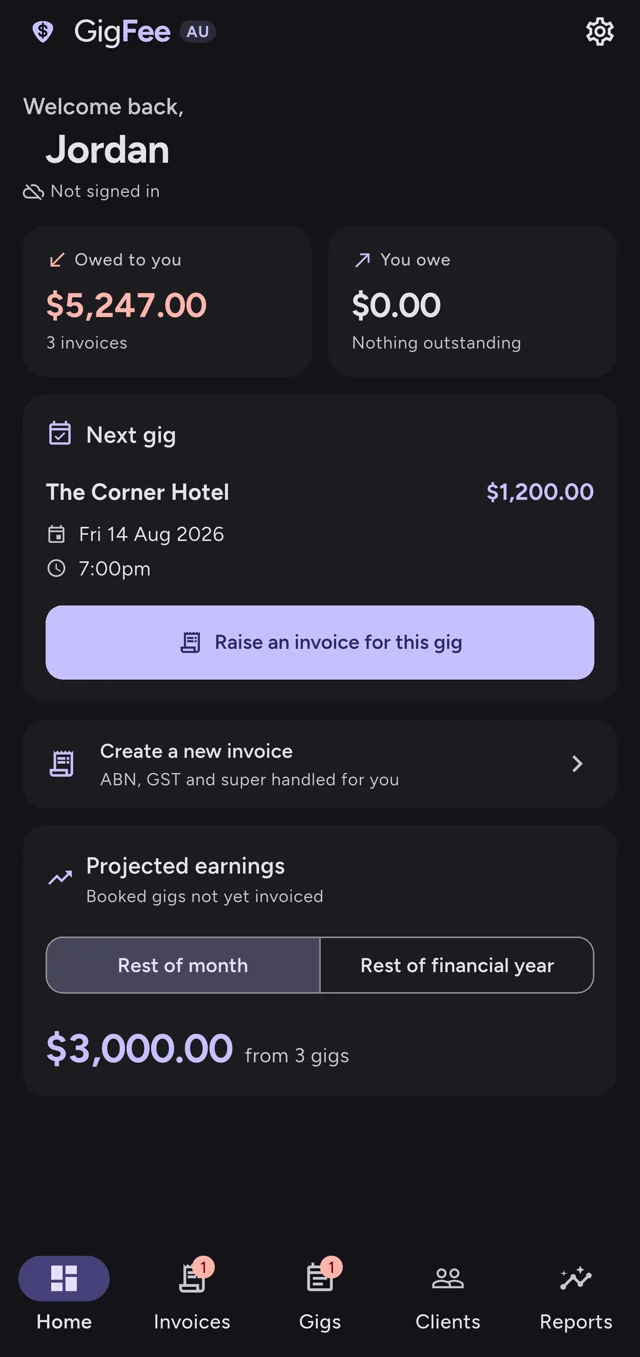
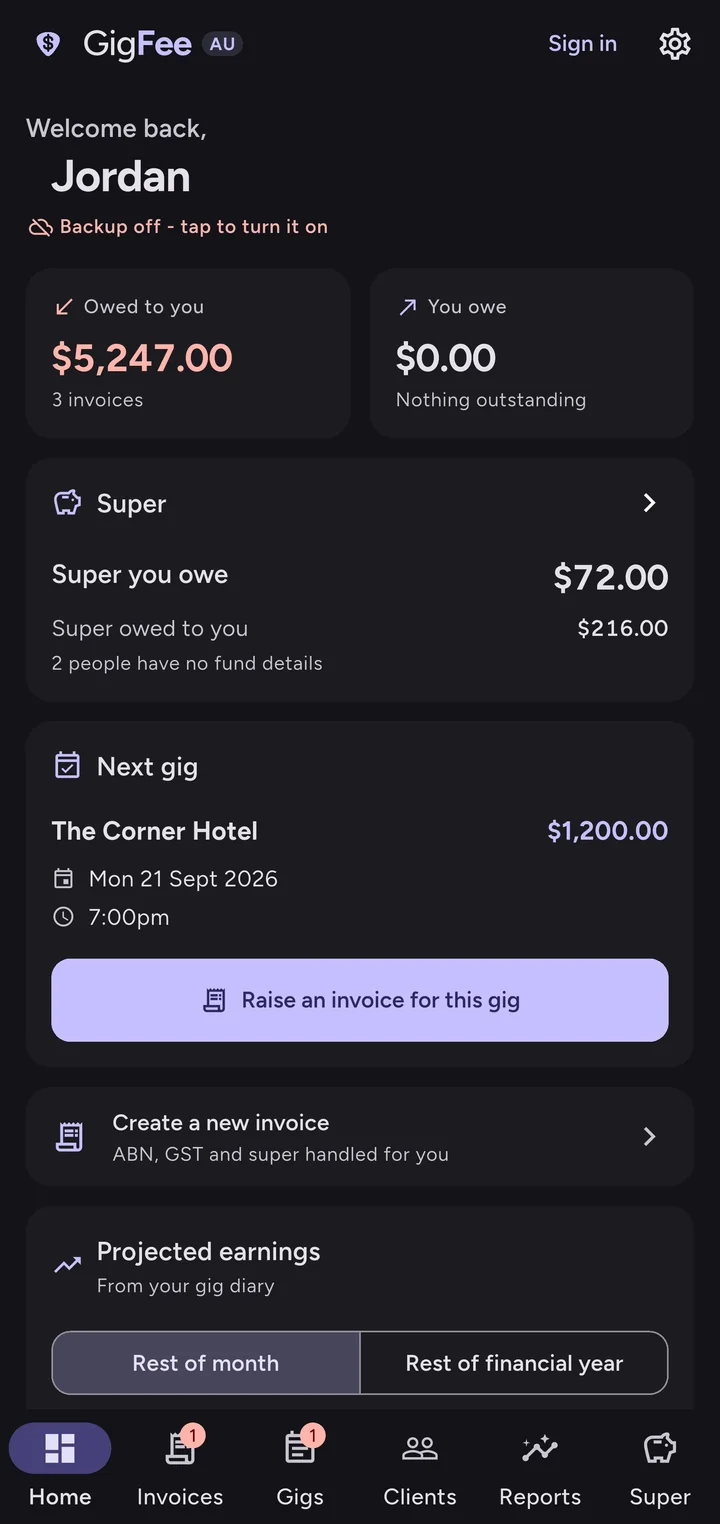
Screenshots of the app as it is now, and a page for the other product
Every frame on the page was captured in August. None of them had the super
ledger, the expenses list or the fourth invoice tab in them, which is to
say the page was showing a version of the app nobody can install. They are
recaptured from the same run that produced the store set, at the geometry
the framing tool documents, so the text is sharp rather than a 1080p
capture stretched to fit.

The super section finally shows the ledger it is about. The money section
shows the expenses list rather than a second reports screen. Each caption
now describes the screen above it, which two of them did not.

The Google Play badge was coming out narrower than it is tall. The global
img rule caps every image at its container's width, and an inline-block
sized by the image inside it resolves that to less than the image needs,
so the badge was drawn distorted - the one thing Google's brand guidelines
are unambiguous about. It is exempt from that cap now.

New: /gigfee-or-sidefill/. The two products solve the same mess from
opposite ends, and the honest split is whose money it is when it lands:
GigFee for the player doing their own paperwork, Sidefill for whoever
books the act and pays everyone on it. It says "neither" is an available
answer, because a comparison page that cannot reach that conclusion is an
ad. Linked from the footer and in the sitemap.

diff --git a/gigfee-or-sidefill/index.html b/gigfee-or-sidefill/index.html
@@ -1,0 +1,223 @@
+<!DOCTYPE html>
+<html lang="en-AU">
+<head>
+<meta charset="utf-8">
+<meta name="viewport" content="width=device-width, initial-scale=1">
+<title>GigFee or Sidefill: which one is for you</title>
+<meta name="description" content="GigFee is for the musician doing their own paperwork. Sidefill is for whoever books the act and pays everyone on it. What each does, and which one your situation calls for.">
+<link rel="icon" href="/favicon.ico" sizes="48x48">
+<link rel="icon" href="/assets/favicon-96.png" type="image/png" sizes="96x96">
+<link rel="icon" href="/assets/favicon-192.png" type="image/png" sizes="192x192">
+<link rel="apple-touch-icon" href="/assets/favicon-192.png">
+<meta name="theme-color" content="#fcfcfa" media="(prefers-color-scheme: light)">
+<meta name="theme-color" content="#111117" media="(prefers-color-scheme: dark)">
+<link rel="canonical" href="https://gigfee.tones-au.com/gigfee-or-sidefill/">
+<meta property="og:title" content="GigFee or Sidefill: which one is for you">
+<meta property="og:description" content="GigFee is for the musician doing their own paperwork. Sidefill is for whoever books the act and pays everyone on it.">
+<meta property="og:url" content="https://gigfee.tones-au.com/gigfee-or-sidefill/">
+<meta property="og:type" content="article">
+<meta property="og:site_name" content="GigFee">
+<meta property="og:locale" content="en_AU">
+<link rel="preconnect" href="https://fonts.googleapis.com">
+<link rel="preconnect" href="https://fonts.gstatic.com" crossorigin>
+<link href="https://fonts.googleapis.com/css2?family=Google+Sans:wght@400;500;600;700&family=IBM+Plex+Sans+Condensed:wght@500;600&display=swap" rel="stylesheet">
+<link rel="stylesheet" href="/assets/site.css">
+<script type="application/ld+json">
+{
+  "@context": "https://schema.org",
+  "@type": "WebPage",
+  "@id": "https://gigfee.tones-au.com/gigfee-or-sidefill/#webpage",
+  "url": "https://gigfee.tones-au.com/gigfee-or-sidefill/",
+  "name": "GigFee or Sidefill: which one is for you",
+  "description": "GigFee is for the musician doing their own paperwork. Sidefill is for whoever books the act and pays everyone on it.",
+  "isPartOf": { "@id": "https://gigfee.tones-au.com/#website" },
+  "publisher": { "@id": "https://gigfee.tones-au.com/#organisation" },
+  "inLanguage": "en-AU"
+}
+</script>
+<style>
+  /* Two columns of plain prose under one rule each. No cards: the comparison
+     is the content, and boxing each side would imply a scorecard this page
+     deliberately is not. */
+  .compare {
+    display: grid; grid-template-columns: repeat(auto-fit, minmax(17rem, 1fr));
+    gap: 2.5rem; margin: 2.5rem 0 0;
+  }
+  .compare > section { border-top: 2px solid var(--line-strong); padding-top: 1.1rem; }
+  .compare h2 { font-size: 1.3rem; margin-bottom: 0.15rem; }
+  .compare .who {
+    font-size: 0.95rem; color: var(--muted); margin: 0 0 1rem;
+  }
+  .compare ul { list-style: none; padding: 0; margin: 0; }
+  .compare li { position: relative; padding-left: 1.6rem; margin-bottom: 0.6rem; }
+  .compare li::before {
+    content: ""; position: absolute; left: 0; top: 0.58em;
+    width: 0.7rem; height: 0.36rem;
+    border-left: 2px solid var(--violet); border-bottom: 2px solid var(--violet);
+    transform: rotate(-45deg);
+  }
+  .compare .go { margin-top: 1.4rem; }
+  .both {
+    border-top: 1px solid var(--line); margin-top: 3rem; padding-top: 2rem;
+    max-width: var(--measure);
+  }
+</style>
+</head>
+<body>
+
+<header class="masthead">
+  <div class="shell">
+    <a class="brand" href="/">
+      <img src="/assets/gigfee-icon.png" alt="">
+      <span>Gig<b>Fee</b></span>
+    </a>
+    <nav>
+      <a href="/#super">Super</a>
+      <a href="/#invoices">Invoices</a>
+      <a href="/guides/">Guides</a>
+      <a href="/#get">Get the app</a>
+    </nav>
+  </div>
+</header>
+
+<main class="shell">
+  <p class="crumbs"><a href="/">GigFee</a><span>›</span>Which one is for you</p>
+
+  <div class="article" style="padding-bottom: 2rem">
+    <p class="kicker">Two tools, one problem</p>
+    <h1>GigFee or Sidefill: which one is for you</h1>
+    <p class="dek">
+      They come from the same workshop and they solve the same mess from
+      opposite ends. Which one you want depends on one thing: whose money it
+      is when it lands.
+    </p>
+    <p>
+      If the fee lands in your account and it is yours, you want GigFee. If
+      the fee lands in your account and most of it belongs to other people,
+      you want Sidefill. Plenty of musicians are the first on a Tuesday and
+      the second on a Saturday, which is why the two are being made to talk
+      to each other.
+    </p>
+  </div>
+
+  <div class="compare">
+    <section>
+      <h2>GigFee</h2>
+      <p class="who">For the player doing their own paperwork.</p>
+      <ul>
+        <li>You invoice for yourself, or for a band you front</li>
+        <li>You want a tax invoice from your phone at the end of the night</li>
+        <li>You need your own super tracked, in both directions, and the
+          deadlines counted properly</li>
+        <li>You want receipts filed against what you bought, for your own
+          return</li>
+        <li>You split a fee with three or four people you know, and you would
+          rather it did not become a group chat</li>
+        <li>Everything lives on your phone unless you switch backup on</li>
+      </ul>
+      <p class="go">
+        <a class="btn btn-solid" href="/">What GigFee does</a>
+      </p>
+    </section>
+
+    <section>
+      <h2>Sidefill</h2>
+      <p class="who">For whoever books the act and pays everyone on it.</p>
+      <ul>
+        <li>You book acts, or run an agency, or lead a roster somebody else
+          pays you for</li>
+        <li>The money arrives as one fee and has to reach several people, on
+          time, with the super sorted</li>
+        <li>You want the payments to actually go out rather than be a list you
+          work through</li>
+        <li>You need a settlement sheet a client and a player can both read</li>
+        <li>You are doing this often enough that "I will sort it on Monday" has
+          stopped being true</li>
+      </ul>
+      <p class="go">
+        <a class="btn btn-outline" href="https://sidefill.com.au/">What Sidefill does</a>
+      </p>
+    </section>
+  </div>
+
+  <div class="both">
+    <h2>If you are both</h2>
+    <p>
+      Most working musicians are. You play your own gigs and you also put a
+      band together for the odd function, and the paperwork for those two is
+      genuinely different work.
+    </p>
+    <p>
+      Use GigFee for the nights that are yours and Sidefill for the ones where
+      you are paying a line-up. They are built to hand work to each other, so
+      a gig booked in one will not have to be typed into the other.
+    </p>
+    <p>
+      Both are Australian, both are built around the same super rules, and
+      both are made by the same person. If you are not sure which fits,
+      <a href="mailto:admin@tones-au.com">say what your week looks like</a>
+      and you will get a straight answer, including "neither" if that is the
+      honest one.
+    </p>
+  </div>
+
+  <div class="more-guides">
+    <h2>Worth reading either way</h2>
+    <ul class="guide-grid">
+      <li class="guide-card">
+        <img src="/assets/cards/payday-super-for-musicians-16x9.png" width="1200" height="675"
+             alt="Payday super, explained for people who play for a living.">
+        <div class="body">
+          <h3><a href="/guides/payday-super-for-musicians/">Payday super, explained for people who play for a living</a></h3>
+          <p>What changed, who owes it, and what it does to a $300 pub gig.</p>
+        </div>
+      </li>
+      <li class="guide-card">
+        <img src="/assets/cards/band-leader-super-and-splits-16x9.png" width="1200" height="675"
+             alt="You invoice for the whole band. Who owes the super?">
+        <div class="body">
+          <h3><a href="/guides/band-leader-super-and-splits/">You invoice for the whole band. Who owes the super?</a></h3>
+          <p>Super lands twice on the same money, and the leader wears it.</p>
+        </div>
+      </li>
+      <li class="guide-card">
+        <img src="/assets/cards/your-structure-and-super-16x9.png" width="1200" height="675"
+             alt="Sole trader, partnership or company, and what each means for super.">
+        <div class="body">
+          <h3><a href="/guides/your-structure-and-super/">Your structure, and what it does to super</a></h3>
+          <p>Sole trader, partnership or company, treated three different ways.</p>
+        </div>
+      </li>
+    </ul>
+  </div>
+</main>
+
+<footer>
+  <div class="shell">
+    <div class="foot-top">
+      <a class="brand" href="/">
+        <img src="/assets/gigfee-icon.png" alt="">
+        <span>Gig<b>Fee</b></span>
+      </a>
+      <div class="foot-links">
+        <a href="/guides/">Guides</a>
+        <a href="https://sidefill.com.au/">Sidefill</a>
+        <a href="/privacy-policy.html">Privacy policy</a>
+        <a href="/terms.html">Terms of use</a>
+        <a href="mailto:admin@tones-au.com">admin@tones-au.com</a>
+      </div>
+    </div>
+    <p class="disclaimer">
+      GigFee gives general information about tax and superannuation. It is not
+      financial or tax advice, and it is no substitute for an accountant who
+      knows your circumstances.
+    </p>
+    <p class="disclaimer copyright">
+      Copyright &copy; 2026 Anthony Collins trading as Tones AU. All rights
+      reserved. GigFee and the GigFee icon are trade marks of Tones AU.
+    </p>
+  </div>
+</footer>
+
+</body>
+</html>

diff --git a/index.html b/index.html
@@ -109,8 +109,9 @@
   "image": "https://gigfee.tones-au.com/assets/og-card.png",
   "screenshot": [
     "https://gigfee.tones-au.com/assets/screen-dashboard.png",
+    "https://gigfee.tones-au.com/assets/screen-super.png",
+    "https://gigfee.tones-au.com/assets/screen-expenses.png",
     "https://gigfee.tones-au.com/assets/screen-gigs.png",
-    "https://gigfee.tones-au.com/assets/screen-split.png",
     "https://gigfee.tones-au.com/assets/screen-reports.png"
   ],
   "author": { "@id": "https://gigfee.tones-au.com/#organisation" },
@@ -392,7 +393,7 @@
       <div class="bezel">
         <picture>
           <source srcset="assets/screen-dashboard.webp" type="image/webp">
-          <img src="assets/screen-dashboard.png" width="640" height="1357"
+          <img src="assets/screen-dashboard.png" width="720" height="1524"
                alt="The GigFee home screen showing money owed, the next gig and a button to raise its invoice.">
         </picture>
       </div>
@@ -449,6 +450,18 @@
         </ul>
       </div>
 
+      <div>
+      <figure class="device" style="margin-bottom: 2rem">
+        <div class="bezel">
+          <picture>
+            <source srcset="assets/screen-super.webp" type="image/webp">
+            <img src="assets/screen-super.png" width="720" height="1524"
+                 alt="The super ledger showing what is owing, what is overdue and what has been paid, with a row for each person.">
+          </picture>
+        </div>
+        <figcaption>Owing, overdue and paid, person by person.</figcaption>
+      </figure>
+
       <div class="sums">
         <h4>A $500 Saturday, GST registered</h4>
         <dl>
@@ -471,6 +484,7 @@
           outside the total: it is not money added to the invoice, which is
           the part most people have to check twice.
         </p>
+      </div>
       </div>
     </div>
 
@@ -530,7 +544,7 @@
         <div class="bezel">
           <picture>
             <source srcset="assets/screen-gigs.webp" type="image/webp">
-            <img src="assets/screen-gigs.png" width="640" height="1357"
+            <img src="assets/screen-gigs.png" width="720" height="1524"
                  alt="The gig diary showing bookings ahead and gigs played but not yet invoiced.">
           </picture>
         </div>
@@ -565,7 +579,7 @@
         <div class="bezel">
           <picture>
             <source srcset="assets/screen-split.webp" type="image/webp">
-            <img src="assets/screen-split.png" width="640" height="1357"
+            <img src="assets/screen-split.png" width="720" height="1523"
                  alt="The fee split screen dividing a $1,200 fee four ways between band members.">
           </picture>
         </div>
@@ -658,12 +672,12 @@
       <figure class="device">
         <div class="bezel">
           <picture>
-            <source srcset="assets/screen-reports.webp" type="image/webp">
-            <img src="assets/screen-reports.png" width="640" height="1357"
-                 alt="The reports screen showing outstanding, overdue, paid and invoiced totals for the financial year.">
+            <source srcset="assets/screen-expenses.webp" type="image/webp">
+            <img src="assets/screen-expenses.png" width="720" height="1524"
+                 alt="The expenses list showing what has been recorded, the GST paid, and which entries are still without a receipt.">
           </picture>
         </div>
-        <figcaption>What the year comes to, by financial year.</figcaption>
+        <figcaption>What you spent, and what is still missing a receipt.</figcaption>
       </figure>
     </div>
   </div>
@@ -819,6 +833,7 @@
       </a>
       <div class="foot-links">
         <a href="/guides/">Guides</a>
+        <a href="/gigfee-or-sidefill/">GigFee or Sidefill</a>
         <a href="https://play.google.com/store/apps/details?id=com.stagefee.stagefee">Google Play</a>
         <a href="#super">Super</a>
         <a href="#invoices">Invoices</a>

diff --git a/assets/site.css b/assets/site.css
@@ -177,6 +177,11 @@ ul { padding-left: 1.25rem; }
 .play-badge img {
   height: calc(var(--badge-h) * 1.4881);  /* 250/168: asset over visible */
   width: auto;
+  /* The global img rule caps every image at the width of its container, and
+     an inline-block that is sized by the image it contains resolves that to
+     less than the image needs: the badge came out narrower than it is tall,
+     which is exactly the distortion Google forbids. */
+  max-width: none;
   margin: calc(var(--badge-h) * -0.2440); /* the baked 41px, scaled */
 }
 .play-badge:focus-visible { outline: 2px solid var(--violet); outline-offset: 3px; }
